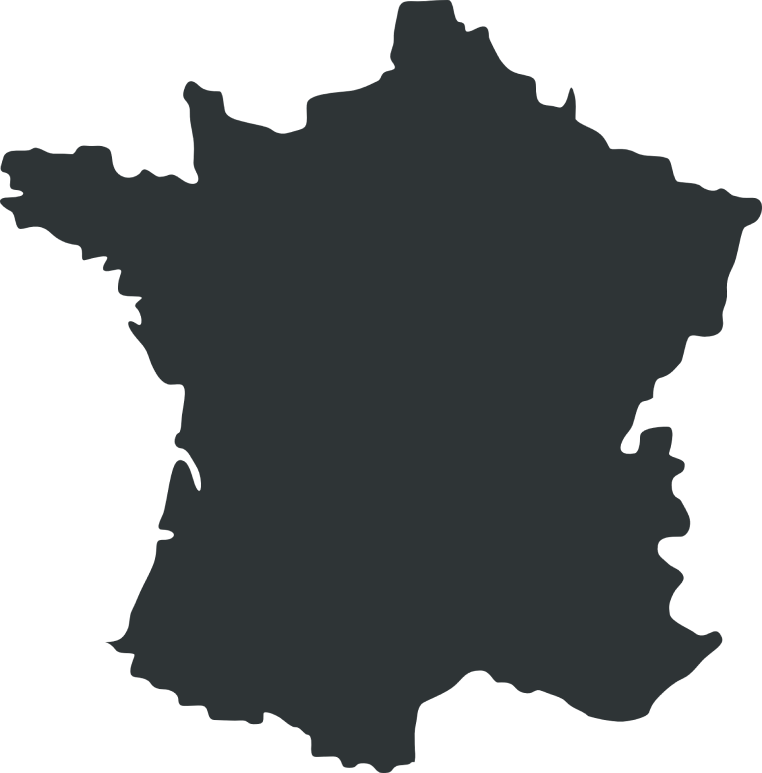
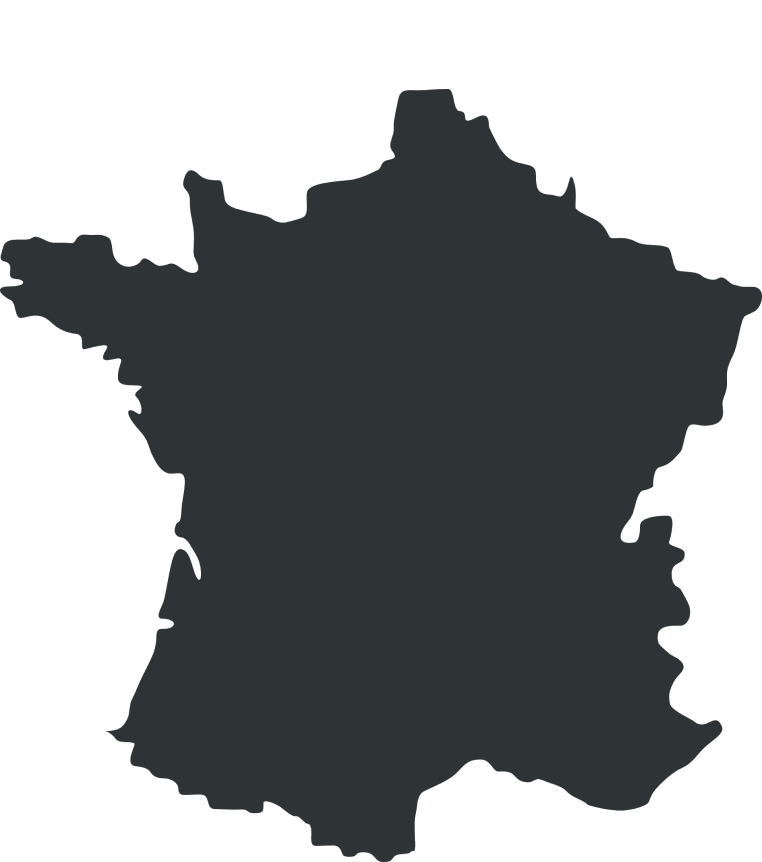
site de sport fini pour la parti pc

diff --git a/02-WebFront/siteSport/index.html b/02-WebFront/siteSport/index.html
@@ -17,19 +17,20 @@
             <nav>
                 <ul class="ulHeader">
                     <li class="liHeader">
-                        <a class="aHeader" href="">CONCEPT</a>
+                        <a class="aHeader" href="#concept">CONCEPT</a>
                     </li>
                     <li class="liHeader">
-                        <a class="aHeader" href="">NOS PROGRAMMES</a>
+                        <a class="aHeader" href="#programmes">NOS PROGRAMMES</a>
                     </li>
                     <li class="liHeader">
-                        <a class="aHeader" href="">NOS CLUBS</a>
+                        <a class="aHeader" href="#clubs">NOS CLUBS</a>
                     </li>
                     <li class="liHeader">
-                        <a class="aHeader" href="">S'INSCRIRE</a>
+                        <a class="aHeader" href="#inscrire">S'INSCRIRE</a>
                     </li>
                 </ul>
             </nav>
+            
             <div class="conteneureHeader">
                 <div class="TextPushYourLimit">
                     <p>PUSH</p>
@@ -50,36 +51,38 @@
     <!-- ***************************** -->
 
     <main>
-        <div class="conteneurMain">
-            <div>
-                <div class="titreMainEttexte">
-                    <h2>NOTRE CONCEPT : VOUS POUSSEZ À VOUS DÉPASSER</h2>
-                    <p class="textePage2">
-                        Lorem ipsum dolor sit amet, consectetur adipiscing elit. Nullam fermentum tortor sapien, sed tincidunt dolor hendrerit id. Duis non rhoncus magna. Vivamus odio libero, congue sed  ultricies nec, mattis in orci. Suspendisse potenti. Quisque purus leo, egestas ut dictum et, porttitor at nisi. Curabitur nisl odio, interdum nec tempor sit amet, interdum eu quam. In augue dui, euismod a faucibus non, egestas eget mi. In eros augue, volutpat sit amet interdum ut, malesuada et ante. Duis eget nibh tellus. Aenean pharetra justo ac orci congue consequat. Nulla eu sodales lacus. Quisque molestie velit ante, nec porta sapien elementum sit amet. Nam non ex nisl. Phasellus interdum mattis augue ut semper. Curabitur accumsan massa ac dictum placerat.
-                    <p/>
-                    <br>
-                    <p class="textePage2">
-                        Lorem ipsum dolor sit amet, consectetur adipiscing elit. Nullam fermentum tortor sapien, sed tincidunt dolor hendrerit id. Duis non rhoncus magna. Vivamus odio libero, congue sed ultricies nec, mattis in orci. Suspendisse potenti. Quisque purus leo, egestas ut dictum et, porttitor at nisi. Curabitur nisl odio, interdum nec tempor sit amet, interdum eu quam. In augue dui, euismod a faucibus non, egestas eget mi. In eros augue, volutpat sit amet interdum ut, malesuada et ante. Duis eget nibh tellus. Aenean pharetra justo ac orci congue consequat. Nulla eu sodales lacus. Quisque molestie velit ante, nec porta sapien elementum sit amet. Nam non ex nisl. Phasellus interdum mattis augue ut semper. Curabituraccumsan massa ac dictum placerat.
-                    </p>
-                    <div class="titreImageMain">
-                        <h3>ÉTES VOUS PRÉT(E) À DÉPASSER VOS LIMITES</h3>
+        <section id="concept">
+            <div class="conteneurMain">
+                <div>
+                    <div class="titreMainEttexte">
+                        <h2>NOTRE CONCEPT : VOUS POUSSEZ À VOUS DÉPASSER</h2>
+                        <p class="textePage2">
+                            Lorem ipsum dolor sit amet, consectetur adipiscing elit. Nullam fermentum tortor sapien, sed tincidunt dolor hendrerit id. Duis non rhoncus magna. Vivamus odio libero, congue sed  ultricies nec, mattis in orci. Suspendisse potenti. Quisque purus leo, egestas ut dictum et, porttitor at nisi. Curabitur nisl odio, interdum nec tempor sit amet, interdum eu quam. In augue dui, euismod a faucibus non, egestas eget mi. In eros augue, volutpat sit amet interdum ut, malesuada et ante. Duis eget nibh tellus. Aenean pharetra justo ac orci congue consequat. Nulla eu sodales lacus. Quisque molestie velit ante, nec porta sapien elementum sit amet. Nam non ex nisl. Phasellus interdum mattis augue ut semper. Curabitur accumsan massa ac dictum placerat.
+                        <p/>
+                        <br>
+                        <p class="textePage2">
+                            Lorem ipsum dolor sit amet, consectetur adipiscing elit. Nullam fermentum tortor sapien, sed tincidunt dolor hendrerit id. Duis non rhoncus magna. Vivamus odio libero, congue sed ultricies nec, mattis in orci. Suspendisse potenti. Quisque purus leo, egestas ut dictum et, porttitor at nisi. Curabitur nisl odio, interdum nec tempor sit amet, interdum eu quam. In augue dui, euismod a faucibus non, egestas eget mi. In eros augue, volutpat sit amet interdum ut, malesuada et ante. Duis eget nibh tellus. Aenean pharetra justo ac orci congue consequat. Nulla eu sodales lacus. Quisque molestie velit ante, nec porta sapien elementum sit amet. Nam non ex nisl. Phasellus interdum mattis augue ut semper. Curabituraccumsan massa ac dictum placerat.
+                        </p>
+                        <div class="titreImageMain">
+                            <h3>ÉTES VOUS PRÉT(E) À DÉPASSER VOS LIMITES</h3>
+                        </div>
+                        <div class="imageFlecheMain">
+                            <img src="./assets/image/icone/Arrow down-circle.png" alt="une fleche qui montre le bas dans un rond">
+                        </div> 
                     </div>
-                    <div class="imageFlecheMain">
-                        <img src="./assets/image/icone/Arrow down-circle.png" alt="une fleche qui montre le bas dans un rond">
-                    </div> 
+                    
                 </div>
-                
+                <div class="imageMain">
+                    <img src="./assets/image/deuxiementPage/deuxSportif.png" alt="Deux sportif l'un a cote de l'autre">
+                </div>
             </div>
-            <div class="imageMain">
-                <img src="./assets/image/deuxiementPage/deuxSportif.png" alt="Deux sportif l'un a cote de l'autre">
-            </div>
-        </div>
+        </section>
 
 <!-- ***************************** -->
     <!-- La 3 eme PAGES  -->
 <!-- ***************************** -->
 
-        <section class="dimenstionSection">
+        <section class="dimenstionSection" id="programmes">
 
             <div class="titreTexteSection">
                 <div class="titreSectionPrincipale">
@@ -196,7 +199,7 @@
     <!-- **************************** -->
     <!-- 4 eme pages  -->
     <!-- ---------------------- -->
-        <section class="conteneurSectionP4">
+        <section class="conteneurSectionP4" id="clubs">
             <div class="sectionTitreUlP4">
                 <h4 class="titreP4">
                 NOUS SOMMES PRINCIPALEMENTS DANS LES 
@@ -216,51 +219,18 @@
                     </ul>
                 </nav>
             </div>
+            
+            <div class="carte">
+                <canvas id="canvas" width="762px" height="801px" ></canvas>
 
-            <iframe src="./carte.html" frameborder="0"></iframe>
-            <!-- <div class="placementPoint">
-
-                <div class="carteImageFrance">
-
-                    <div class="icon lillesIcon">
-                        <img src="./assets/image/icone/icon.png" alt="">
-                    </div>
-
-                    <div class="icon parisIcon">
-                        <img src="./assets/image/icone/icon.png" alt="">
-                    </div>
-
-                    <div class="icon rennesIcon">
-                        <img src="./assets/image/icone/icon.png" alt="">
-                    </div>
-
-                    <div class="icon strasbourgIcon">
-                        <img src="./assets/image/icone/icon.png" alt="">
-                    </div>
-
-                    <div class="icon nantesIcon">
-                        <img src="./assets/image/icone/icon.png" alt="">
-                    </div>
-
-                    <div class="icon lyonIcon">
-                        <img src="./assets/image/icone/icon.png" alt="">
-                    </div>
-
-                    <div class="icon marseilleIcon">
-                        <img src="./assets/image/icone/icon.png" alt="">
-                    </div>
-
-                    <div class="icon bordeauxIcon">
-                        <img src="./assets/image/icone/icon.png" alt="">
-                    </div>
-                </div>
-            </div> -->
+                <script src="./assets/JS/style.js"></script>
+            </div>
         </section>
 
     <!-- **************************** -->
     <!-- 5 eme pages questionnaire  -->
     <!-- ---------------------- -->
-        <section id="conteneurSectionP5">
+        <section class="conteneurSectionP5" id="inscrire">
             <div id="fondDeCouleur">
                 <div class="imageQuestionner">
                     <div class="conteurPag5">

diff --git a/02-WebFront/siteSport/assets/styleCSS/style.css b/02-WebFront/siteSport/assets/styleCSS/style.css
@@ -26,16 +26,16 @@ body{
 /*Premier pages*/
 /*********************/
 header{
-    width: 100%;
-    height: 100%;
+    min-width: 100%;
+    min-height: 100%;
 } 
 .imgPrincipale{
     background-image: url("../image/pagePrincipale/deuxPersonne.png");
     background-repeat:no-repeat;
     background-size:cover;
     background-position-x: center;
-    width: 100%;
-    height: 100vh;
+    min-width: 100%;
+    min-height: 100vh;
 }
 .ulHeader{
     text-align: center;
@@ -101,8 +101,8 @@ h1{
 .conteneurMain{
     display: flex;
     background-color:#26C1DC ;
-    width: 100%;
-    height: 100vh;
+    min-width: 100%;
+    min-height: 100vh;
 }
 .titreMainEttexte{
     display: block;
@@ -145,8 +145,8 @@ h2{
 /* 3 eme pages */
 /*********************/
 .dimenstionSection{
-    width: 100%;
-    height: 100%;
+    min-width: 100%;
+    min-height: 100%;
 }
 .titreTexteSection{
     display: flex;
@@ -180,8 +180,8 @@ h2{
     ;
 }
 .titreEtMotScection{
-    height: 100vh;
-    width: 100%;
+    min-height: 100vh;
+    min-width: 100%;
 }
 .section1 .titreEtMotScection{
     background-image: url("../image/programme/image1.png");
@@ -261,8 +261,8 @@ h2{
     position: absolute;
     color: white;
     opacity: 0;
-    width: 100%;
-    height: 100vh;
+    min-width: 100%;
+    min-height: 100vh;
     background-color: #26C1DCCF ;
 }
 .titreSection{
@@ -288,93 +288,49 @@ h2{
 .conteneurSectionP4{
    display: flex;
    justify-content: space-between;
+   flex-wrap: wrap;
    background-color:#D9D9D9 ;
-   width: 100%;
-   height: 100vh;
+   min-width:100%;
+   min-height: 100vh; 
 }
 .titreP4{
     color: #2E3436;
-    font-size: 3vh;
+    font-size: 4vh;
     letter-spacing: 3px;
 }
 .sectionTitreUlP4{
-    width: 384px;
-    height: 672px;
+    width: 27%;
     padding-left: 7%;
     margin-top: 5%;
 }
 .ulCarteP4 .ulPage4section{
     display: flex;
     flex-direction: column;
-    margin-top: 20%;
+    padding-top: 10%;
 }
 .ilPage4Section{
     font-size: 4vh;
-    
+    padding-top: 4%;
 }
-
 
 /*************************/
         /*CARTE */
 /*************************/
-/* .placementPoint{
-    width: 762px;
-    height: 41.719vw;
-    margin-right: 5%;
-    margin-top: 5%;
+
+.carte{
+  padding-right: 2%; 
 }
-.carteImageFrance{
-    position: relative;
-    background-image: url("../image/carteDeFRance/Carte_France.png");
-    background-size:contain;
-    background-repeat: no-repeat;
-    width: 100%;
-    height: 100%;
-}
-.icon{
-    position: absolute;
-}
-.lillesIcon{
-    left: 460px;
-}
-.parisIcon{
-    left: 400px;
-    top: 200px;
-}
-.rennesIcon{
-    left: 140px;
-    top: 170px;
-}
-.strasbourgIcon{
-    left: 700px;
-    top: 180px;
-}
-.nantesIcon{
-    left: 145px;
-    top: 270px;
-}
-.lyonIcon{
-    left: 550px;
-    bottom: 300px;
-}
-.marseilleIcon{
-    left: 525px;
-    bottom: 110px;
-}
-.bordeauxIcon{
-    left: 180px;
-    bottom: 300px;
-} */
+
 
 /***************/
     /*Page 5 */
 /***************/
-#conteneurSectionP5{
+.conteneurSectionP5{
     background-image: url("../image/finDePages/uneFemme.png");
     background-repeat:no-repeat;
     background-size: 100% 100%;
     background-position-x: right;
-    width: 100%;
+    min-width: 100%;
     min-height: 100vh;
 }
 
@@ -447,7 +403,7 @@ label{
 /*************************/
 .footerDernnierPages{
     background-color: #133135 ;
-    width: 100%;
+    min-width: 100%;
     height: 528px;
     display: flex;
     gap: 3%;

diff --git a/02-WebFront/siteSport/assets/JS/style.js b/02-WebFront/siteSport/assets/JS/style.js
@@ -12,18 +12,6 @@ img.onerror = function() {
 img.src = 'assets/image/carteDeFrance/Carte_France.png';
 
 
-
-// // Fonction pour ajouter des icônes
-// function addIcon(x, y, iconSrc) {
-//     const icon = new Image();
-//     icon.onload = function() {
-//         ctx.drawImage(icon, x - icon.width / 2, y - icon.height / 2);
-//     };
-//     icon.onerror = function() {
-//         console.error('Erreur de chargement de l\'icône.');
-//     };
-//     icon.src = 'assets/image/icone/icon.png';
-
      
 // Fonction pour ajouter des icônes
 function addIcon(x, y, iconSrc) {
@@ -39,13 +27,14 @@ function addIcon(x, y, iconSrc) {
  
 // Ajouter des icônes aux positions souhaitées
 const positions = [
-    {x: 100, y: 150, src: 'assets/image/icone/icon1.png'},
-    {x: 200, y: 250, src: 'assets/image/icone/icon2.png'},
-    {x: 300, y: 100, src: 'assets/image/icone/icon3.png'},
-    {x: 400, y: 300, src: 'assets/image/icone/icon4.png'},
-    {x: 500, y: 200, src: 'assets/image/icone/icon5.png'},
-    {x: 600, y: 400, src: 'assets/image/icone/icon6.png'},
-    {x: 700, y: 500, src: 'assets/image/icone/icon7.png'}
+    {x: 520, y: 135, src: 'assets/image/icone/icon1.png'},
+    {x: 430, y: 242, src: 'assets/image/icone/icon2.png'},
+    {x: 170, y: 262, src: 'assets/image/icone/icon3.png'},
+    {x: 735, y: 270, src: 'assets/image/icone/icon4.png'},
+    {x: 170, y: 364, src: 'assets/image/icone/icon5.png'},
+    {x: 534, y: 490, src: 'assets/image/icone/icon6.png'},
+    {x: 562, y: 690, src: 'assets/image/icone/icon7.png'},
+    {x: 210, y: 520, src: 'assets/image/icone/icon6.png'}
 ];
  
 positions.forEach(function(pos) {

diff --git a/02-WebFront/siteSport/assets/styleCSS/responsive.css b/02-WebFront/siteSport/assets/styleCSS/responsive.css
@@ -1,0 +1,8 @@
+@media(max-width:1200px){
+.imgPrincipale{
+
+    .ulHeader{
+       margin-right: -200%;
+    }
+}
+}
